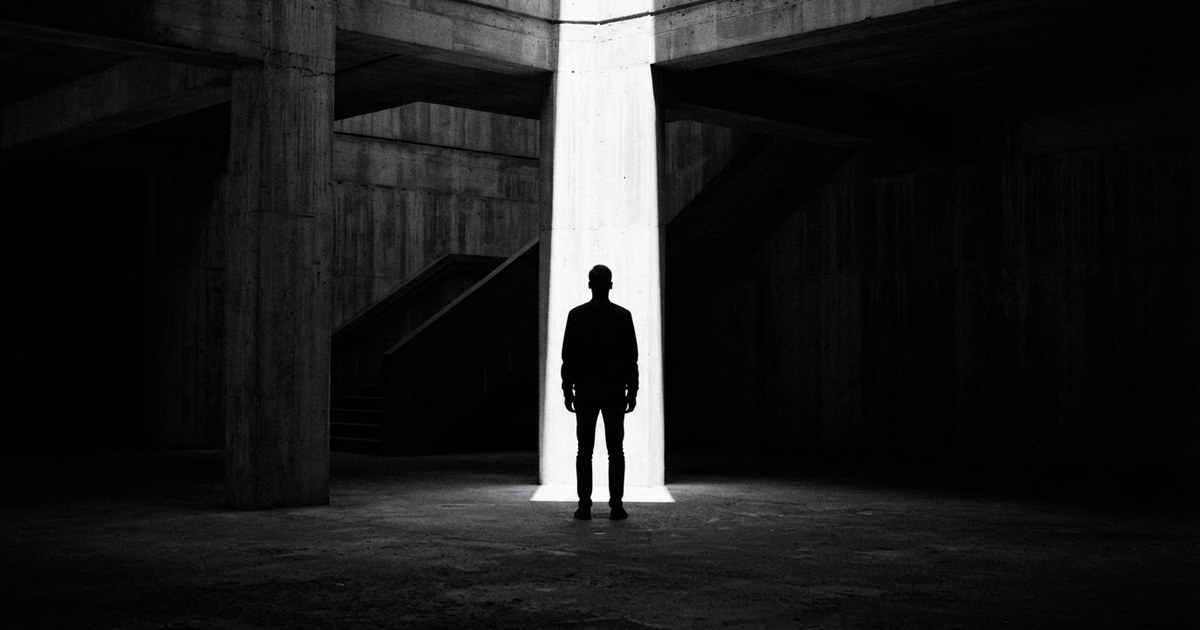
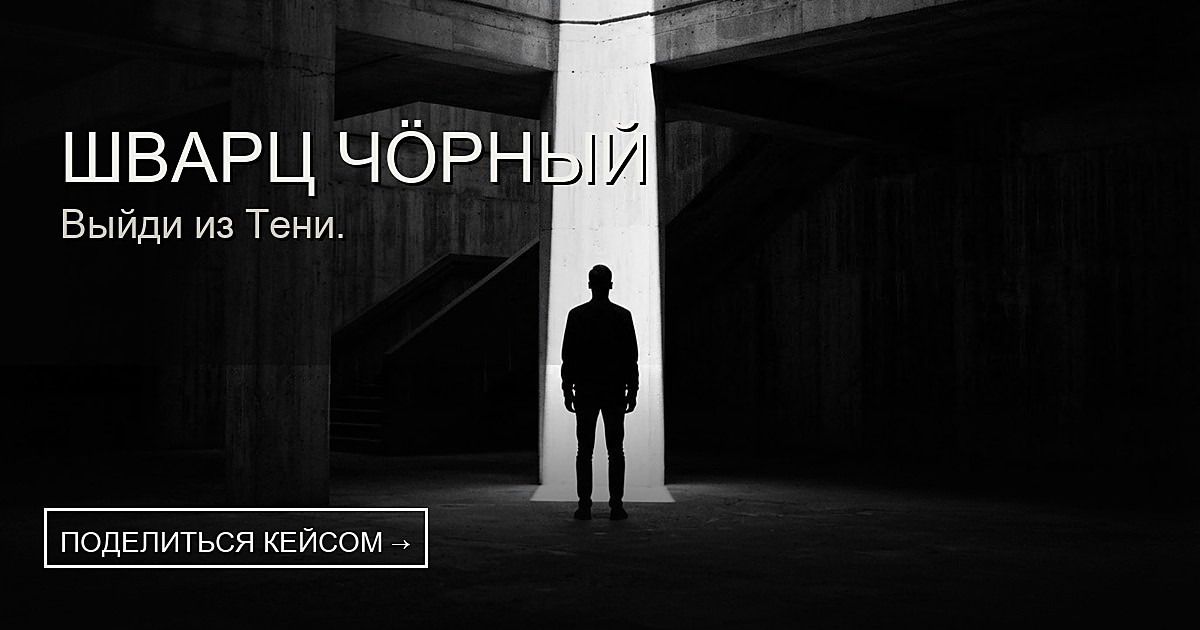
Tighten meta lengths and add OG image headline with CTA.

Changed region(s): [[0.0308, 0.6032, 0.7092, 0.9651], [0.0308, 0.0, 0.555, 0.573], [0.5242, 0.9349, 0.5858, 1.0]]

diff --git a/index.html b/index.html
@@ -4,10 +4,10 @@
     <meta charset="UTF-8" />
     <meta name="viewport" content="width=device-width, initial-scale=1.0" />
 
-    <title>ШВАРЦ ЧÖРНЫЙ — Выйди из Тени</title>
+    <title>ШВАРЦ ЧÖРНЫЙ — Выйди из Тени | Брутальный психолог</title>
     <meta
       name="description"
-      content="ШВАРЦ ЧÖРНЫЙ. Проект «Выйди из Тени». Работа с негативными, табуированными и деструктивными сторонами Личности. Исповедь и Индульгенция. Брутальный психолог для экстремальных запросов."
+      content="ШВАРЦ ЧÖРНЫЙ. Выйди из Тени — работа с негативными и табуированными сторонами Личности, кризисами в жизни, отношениях и бизнесе."
     />
     <meta name="author" content="ШВАРЦ ЧÖРНЫЙ" />
     <meta name="theme-color" content="#050505" />
@@ -31,26 +31,26 @@
     <meta property="og:url" content="https://amalgamer.com/" />
     <meta property="og:site_name" content="ШВАРЦ ЧÖРНЫЙ" />
     <meta property="og:locale" content="ru_RU" />
-    <meta property="og:title" content="ШВАРЦ ЧÖРНЫЙ" />
+    <meta property="og:title" content="ШВАРЦ ЧÖРНЫЙ — Выйди из Тени" />
     <meta
       property="og:description"
-      content="Выйди из Тени. Работа с негативными, табуированными и деструктивными сторонами Личности. Кризисными и терминальными фазами в жизни, отношениях, бизнесе."
+      content="Выйди из Тени. Работа с негативными сторонами Личности и кризисными фазами в жизни, отношениях, бизнесе."
     />
-    <meta property="og:image" content="https://amalgamer.com/og-default.jpg" />
-    <meta property="og:image:secure_url" content="https://amalgamer.com/og-default.jpg" />
+    <meta property="og:image" content="https://amalgamer.com/og-default.jpg?v=2" />
+    <meta property="og:image:secure_url" content="https://amalgamer.com/og-default.jpg?v=2" />
     <meta property="og:image:type" content="image/jpeg" />
     <meta property="og:image:width" content="1200" />
     <meta property="og:image:height" content="630" />
-    <meta property="og:image:alt" content="ШВАРЦ ЧÖРНЫЙ — Выйди из Тени" />
+    <meta property="og:image:alt" content="ШВАРЦ ЧÖРНЫЙ — Выйди из Тени. Поделиться кейсом" />
 
     <meta name="twitter:card" content="summary_large_image" />
-    <meta name="twitter:title" content="ШВАРЦ ЧÖРНЫЙ" />
+    <meta name="twitter:title" content="ШВАРЦ ЧÖРНЫЙ — Выйди из Тени" />
     <meta
       name="twitter:description"
-      content="Выйди из Тени. Работа с негативными, табуированными и деструктивными сторонами Личности. Кризисными и терминальными фазами в жизни, отношениях, бизнесе."
+      content="Выйди из Тени. Работа с негативными сторонами Личности и кризисными фазами в жизни, отношениях, бизнесе."
     />
-    <meta name="twitter:image" content="https://amalgamer.com/og-default.jpg" />
-    <meta name="twitter:image:alt" content="ШВАРЦ ЧÖРНЫЙ — Выйди из Тени" />
+    <meta name="twitter:image" content="https://amalgamer.com/og-default.jpg?v=2" />
+    <meta name="twitter:image:alt" content="ШВАРЦ ЧÖРНЫЙ — Выйди из Тени. Поделиться кейсом" />
 
     <script type="application/ld+json">
       {
@@ -59,7 +59,7 @@
         "name": "Шварц Чорный",
         "alternateName": "ШВАРЦ ЧÖРНЫЙ",
         "jobTitle": "Брутальный психолог",
-        "description": "Проект «Выйди из Тени». Работа с негативными, табуированными и деструктивными сторонами Личности. Исповедь и Индульгенция.",
+        "description": "Выйди из Тени. Работа с негативными сторонами Личности и кризисами в жизни, отношениях, бизнесе.",
         "url": "https://amalgamer.com/",
         "image": "https://amalgamer.com/og-default.jpg",
         "sameAs": [
